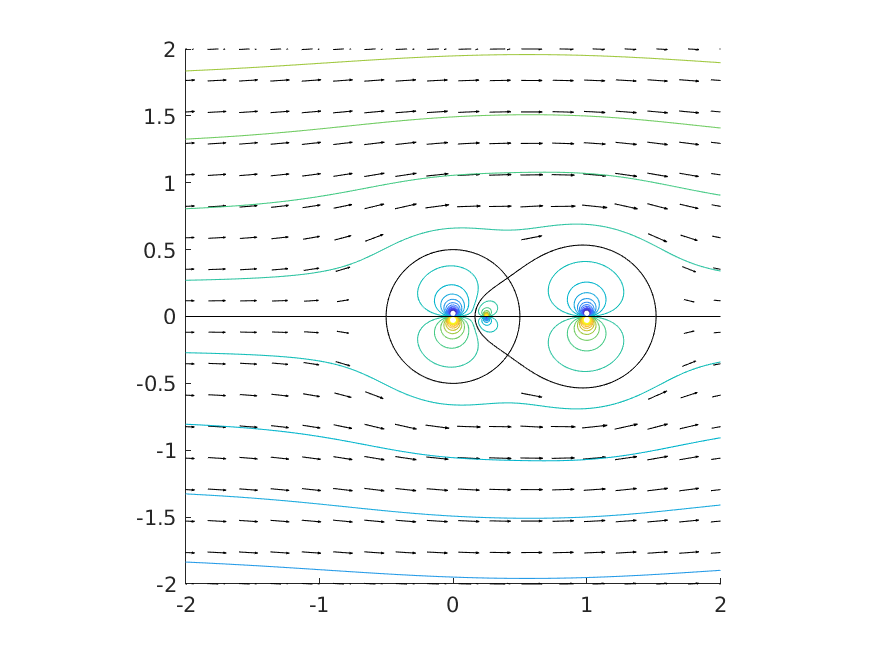
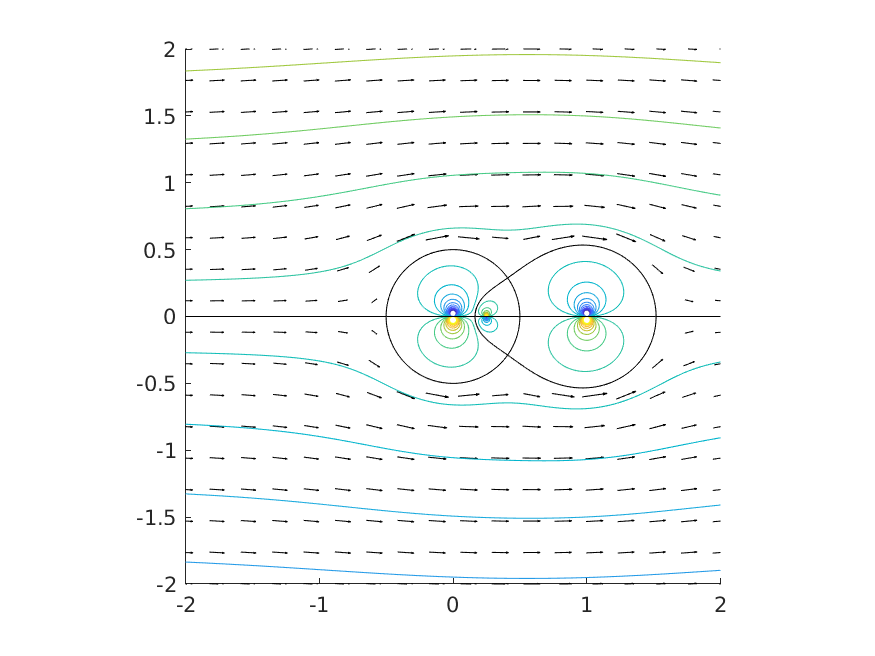
Add as11 edits

diff --git a/as11/hw.tex b/as11/hw.tex
@@ -18,6 +18,7 @@
 \DeclareMathOperator*{\res}{Res}
 
 \newcommand{\R}{\mathbb{R}}
+\newcommand{\C}{\mathbb{C}}
 \newcommand{\Z}{\mathbb{Z}}
 
 \def\*#1{\mathbf{#1}}
@@ -43,6 +44,9 @@
 \newcommand{\dtau}{\delta \tau}
 \newcommand{\titau}{\tilde{\tau}}
 \newcommand{\tidtau}{\delta \tilde{\tau}}
+\newcommand{\tiz}{\tilde{z}}
+\newcommand{\tix}{\tilde{x}}
+\newcommand{\tiy}{\tilde{y}}
 
 % Links
 \usepackage{hyperref}
@@ -245,6 +249,7 @@ In this problem I'm going to do the following:
 \begin{itemize}
     \item derive a formula for the torque about the origin due to forces on a body
     \item show an example of why an object in uniform flow is rotationally stable
+    \item generalize the above example for general rotational stability
 \end{itemize}
 
 \textbf{Deriving the torque formula}
@@ -399,7 +404,7 @@ Now we'll consider the familiar flow past a circular cylinder whose
 potential is given by
 %
 \begin{equation*}
-    \Phi(z) = U_\infty (z + \frac{a^2}{z})
+    \Phi(z) = U_\infty \del{z + \frac{a^2}{z}}
 \end{equation*}
 %
 (there's actually a figure for this with $U_\infty = 1$ and $a = 2$ in
@@ -425,12 +430,31 @@ cylinder is given by
      ,
 \end{align*}
 %
-so the cylinder is rotationally stable, which makes sense. How does this
-example generalize to \textit{any} body in \textit{any} uniform flow? My
-intuition is that, provided the body is symmetric with respect to the
-orientation of flow, the torque will be $0$. However, this might even
-hold if the body isn't symmetric, although this isn't particularly
-intuitive to me.
+so the cylinder is rotationally stable, which makes sense.
+
+\textbf{Generalizing the example}
+
+What can we say about the torque about the origin for an arbitrary body?
+The key lies in the circulation
+%
+\begin{equation*}
+    \Gamma = \Re \cbr{\oint_\fC \dod{\Phi}{z} \dif z}
+    .
+\end{equation*}
+%
+The Laurent series for the above integrand, has a non-zero residue only if
+the Laurent series for
+%
+\begin{equation*}
+    z \del{\dod{\Phi}{z}}^2
+\end{equation*}
+%
+also has a non-zero residue. Moreover, we can say that we have a non-zero
+\textit{real} component of the residue for the integrand of the
+circulation only if we have a non-zero real component of the
+residue for the integrand of the torque integrand. Hence there is no net
+torque about the origin only if the circulation around the body
+is zero. (Whether the converse holds is non-trivial.)
 
 \newpage
 
@@ -441,7 +465,7 @@ In this problem I'm going to do the following:
     \item describe what the Milne-Thomson circle theorem states
     \item prove the theorem
     \item show an example
-    \item show another example (the ping pong ball)
+    \item show another example (the ping pong ball in single/double hair dryer flow)
     \item explore whether we can extend this theorem to multiple circles
 \end{itemize}
 
@@ -552,8 +576,9 @@ magnitude near the origin.
 
 Now we'll look at the ``ping-pong ball in a hair dryer'' flow we briefly
 looked at in lecture. For this example, we'll get a bit more involved in
-the analysis than the previous example. Here, Milne-Thomson will
-essentially insert a circle (our ping pong ball) into the hair dryer
+the analysis than the previous example. First we'll look at ``double
+hair dryer'' flow. Here, Milne-Thomson will essentially insert a circle
+(our ping pong ball) into the centre of the double hair dryer
 flow $\Phi$ given by
 %
 \begin{equation*}
@@ -576,21 +601,21 @@ Computing the real and imaginary components of $\Phi_{mt}$ then gives us
     .
 \end{align*}
 %
-Plots of the hair dryer flow generated from $\Phi$ and with the embedded
-ping pong ball generated from $\Phi_{mt}$ are shown in
+Plots of the double hair dryer flow generated from $\Phi$ and with the
+embedded ping pong ball generated from $\Phi_{mt}$ are shown in
 Figures~\ref{fig:mt-3} and~\ref{fig:mt-4}, respectively.
 %
 \begin{figure}[ht]
     \includegraphics[width=35em]{mt_ex2_1}
     \centering
-    \caption{Hair dryer flow generated from $\Phi$}
+    \caption{Double hair dryer flow generated from $\Phi$}
     \label{fig:mt-3}
 \end{figure}
 %
 \begin{figure}[ht]
     \includegraphics[width=35em]{mt_ex2_2}
     \centering
-    \caption{Ping pong ball in hair dryer flow generated from $\Phi_{mt}$}
+    \caption{Ping pong ball in double hair dryer flow generated from $\Phi_{mt}$}
     \label{fig:mt-4}
 \end{figure}
 %
@@ -612,11 +637,11 @@ and, thus, using the residue theorem we have that
 \end{equation*}
 %
 Hence we would expect that a ping pong ball placed in the centre of the
-hair dryer flow will stay in the center.
+double hair dryer flow will stay in the centre.
 
 What if we offset the ping pong ball so it wasn't exactly in the centre
-of the hair dryer flow? Let's offset the ball (or, equivalently, the
-hair dryer flow) by $0.1$ units horizontally. We can model this by
+of the double hair dryer flow? Let's offset the ball (or, equivalently, the
+double hair dryer flow) by $0.1$ units horizontally. We can model this by
 generating a new potential $\Phi_{mt2}$ given by
 %
 \begin{equation*}
@@ -642,8 +667,8 @@ small).
     \label{fig:mt-5}
 \end{figure}
 %
-Let's go ahead and compute the Blasius integral formula again. First we'll calculate the integrand
-in the Blasius integral formula:
+Let's go ahead and compute the Blasius integral formula again. First
+we'll calculate the integrand in the Blasius integral formula:
 %
 \begin{equation*}
     \del{\Phi^\prime_{mt2}}^2
@@ -656,21 +681,63 @@ Hence we have that
 %
 \begin{align*}
     \*F_B
-        &\to \del{i \frac{\rho_0}{2} \oint_{\partial B} \del{\Phi_{mt}^\prime(z)}^2 \dif z}^* \\
+        &\to \del{i \frac{\rho_0}{2} \oint_{\partial B} \del{\Phi_{mt2}^\prime(z)}^2 \dif z}^* \\
         &= \del{i \frac{\rho_0}{2} 2 \pi i \res_{z = 0} \sbr{\del{\Phi^\prime_{mt2}}^2}}^* \\
         &= \del{i \frac{\rho_0}{2} 2 \pi i (-0.8)}^* \\
         &= 0.8 \rho_0 \pi
     .
 \end{align*}
 %
-So it would appear that the ping bong ball is being pushed out of the
-hair dryer flow with this offset, which does not support the observation
-that the ping pong ball is stable in the centre of the hair dryer flow.
-In fact, if you generalize the horizontal offset to any number $c$, we
-can see that the centre is never stable, in the sense that the force
-will always be directed away from the centre of the hair dryer flow
-(unless the ball is exactly at the centre). Perhaps this isn't a good
-model for the ``ping pong ball in hair dryer flow'' demo?
+So it would appear that the ping bong ball is being away from
+centre double hair dryer flow with this offset.
+
+Before moving on to single hair dryer flow, let's consider any offset
+$\tiz \in \C$ and see whether the centre of the flow is stable with
+respect to this offset. In this case, our potential $\Phi_{mt3}$ will be
+given by
+%
+\begin{equation*}
+    \Phi_{mt3}(z) = (z + \tiz)^2 + \del{\frac{1}{z} + \tiz}^2
+    .
+\end{equation*}
+%
+Expressing $\tiz = \tix + i \tiy$ we have that (omitting the whole
+calculation for brevity; the steps are identical to what we did with the
+$0.1$ horizontal offset)
+%
+\begin{equation*}
+    \res_{z = 0} \del{\Phi^\prime_{mt3}}^2 = -8 (\tix + i \tiy)
+    ,
+\end{equation*}
+%
+and so
+%
+\begin{align*}
+    \*F_B
+        &\to \del{i \frac{\rho_0}{2} \oint_{\partial B} \del{\Phi_{mt3}^\prime(z)}^2 \dif z}^* \\
+        &= \del{i \frac{\rho_0}{2} 2 \pi i \res_{z = 0} \sbr{\del{\Phi^\prime_{mt3}}^2}}^* \\
+        &= \del{i \frac{\rho_0}{2} 2 \pi i (- 8 (\tix + i \tiy)}^* \\
+        &= 8 \rho_0 \pi (\tix - \tiy)
+    .
+\end{align*}
+%
+From this we can conclude that any perturbation of the ping pong ball
+from the centre of the hair dryer flow will push the ping pong ball
+\textit{away} from the centre in the horizontal direction and
+\textit{towards} the centre in the vertical direction. Looking again at
+the flow in Figure~\ref{fig:mt-3}, this result makes sense.
+
+We've looked at the double hair dryer flow, but what can we say about
+single hair dryer flow? It turns out that if we take the single hair
+dryer flow to be a vertically translated version of our double hair
+dryer flow, then we've already solved the problem. Considering our
+generalization above, the ping pong ball is \textit{never} stable in the
+centre of the single hair dryer flow. The ball will move vertically up
+no matter what, and, if not horizontally centered, will also move
+horizontally outwards. This is consistent with Figure~\ref{fig:mt-3}.
+However, it is not consistent with the demo we saw in lecture, which
+implies that this flow is not suitable to model the physics seen in the
+lecture demo.
 
 \textbf{Modelling multiple circles}
 
@@ -713,16 +780,34 @@ Figure~\ref{fig:mt-6}.
     \label{fig:mt-6}
 \end{figure}
 %
-This result is surprising. What is the third singularity (the one that is
-most ``intense'') doing there? How can we interpret it? Why is the $\psi
-= 0$ contour for our original circle seemingly ``reaching over'' to
-``include it'' in its interior?
+This result is physically plausible in that it looks roughly like what I
+would expect to happen if we inserted two circles into the flow $\Phi$.
 
-I don't have the answers to any of these questions. What I can
-(partially) answer is whether this is a good model for embedding two (or
-more) circles into a flow. I want to say yes, albeit hesitantly, because
-the flow looks reasonable. The hesitation comes from not knowing how to
-understand the third singularity. This is something I would explore in
-more detail in a longer, more comprehensive project.
+These circles are ``touching'' each other by design. What if they were
+farther apart. Let's see what happens in this case. Here we will keep $a
+= 1/2$ for both circles and offset horizontally $5$ units. This gives us
+the final potential (after both circles are embedded)
+%
+\begin{equation*}
+    \Psi_{mt2}
+        = (z - 5) + \frac{1}{4 (z - 5)}
+        + \del{\frac{1}{4z} - 5} + \frac{1}{4 (\frac{1}{4z} - 5)}
+\end{equation*}
+%
+which results in the flow in Figure~\ref{fig:mt-7}.
+%
+\begin{figure}[ht]
+    \includegraphics[width=35em]{mt_ex3_2}
+    \centering
+    \caption{Modelling two circle flow generated from $\Psi_{mt2}$}
+    \label{fig:mt-7}
+\end{figure}
+%
+Again, the results here look perfectly reasonable.
+
+Based on these two example my conjecture is that, for any given flow, we
+can approximate embedding \textit{any} object into the flow by
+approximating it with non-overlapping circles and applying Milne-Thomson
+successively in the manner we've done here.
 
 \end{document}

diff --git a/as11/code/mt_ex3-2.m b/as11/code/mt_ex3-2.m
@@ -1,0 +1,48 @@
+clear;
+close all
+
+% Setup grids
+L = 6.0;
+ds = 2/17;
+
+x = -1:ds:+L;
+y = -1:ds:+1;
+
+% Contour grid
+xc = linspace(-1,L,1000);
+yc = linspace(-1,L,1000);
+[xxc,yyc] = meshgrid(xc,yc);
+
+% Quiver grid
+[xx,yy] = meshgrid(x,y);
+[tt,rr] = cart2pol(xx,yy);
+
+% Psi
+psi = -4.*yyc./((-20 + 4.*xxc).^2 + 16.*yyc.^2) - yyc./(4.*(xxc.^2 + yyc.^2)) + yyc./((xxc.^2 + yyc.^2).*((xxc./(xxc.^2 + yyc.^2) - 20).^2 + yyc.^2./(xxc.^2 + yyc.^2).^2)) + yyc;
+
+% Velocities
+uu = 1 + 4./((-20 + 4.*xx).^2 + 16.*yy.^2) - (-20 + 4.*xx).*(-160 + 32.*xx)./((-20 + 4.*xx).^2 + 16.*yy.^2).^2 + 1./(4.*(xx.^2 + yy.^2)) - xx.^2./(2.*(xx.^2 + yy.^2).^2) + (1./(xx.^2 + yy.^2) - 2.*xx.^2./(xx.^2 + yy.^2).^2)./((xx./(xx.^2 + yy.^2) - 20).^2 + yy.^2./(xx.^2 + yy.^2).^2) - (xx./(xx.^2 + yy.^2) - 20).*(2.*(xx./(xx.^2 + yy.^2) - 20).*(1./(xx.^2 + yy.^2) - 2.*xx.^2./(xx.^2 + yy.^2).^2) - 4.*yy.^2.*xx./(xx.^2 + yy.^2).^3)./((xx./(xx.^2 + yy.^2) - 20).^2 + yy.^2./(xx.^2 + yy.^2).^2).^2;
+vv = -32.*(-20 + 4.*xx).*yy./((-20 + 4.*xx).^2 + 16.*yy.^2).^2 - xx.*yy./(2.*(xx.^2 + yy.^2).^2) - 2.*xx.*yy./((xx.^2 + yy.^2).^2.*((xx./(xx.^2 + yy.^2) - 20).^2 + yy.^2./(xx.^2 + yy.^2).^2)) - (xx./(xx.^2 + yy.^2) - 20).*(-4.*(xx./(xx.^2 + yy.^2) - 20).*xx.*yy./(xx.^2 + yy.^2).^2 + 2.*yy./(xx.^2 + yy.^2).^2 - 4.*yy.^3./(xx.^2 + yy.^2).^3)./((xx./(xx.^2 + yy.^2) - 20).^2 + yy.^2./(xx.^2 + yy.^2).^2).^2;
+
+% Start plot
+clf
+hold on
+
+% Quivers - plotting twice makes symmetrically-placed arrows
+rr1 = xx.^2 + yy.^2;
+rr2 = (xx - 5).^2 + yy.^2;
+quiv_condition = rr1>=0.3 & rr2>=0.3;
+
+quiver(x,y,uu.*quiv_condition,vv.*quiv_condition,0.3,'k')
+quiver(x,y,-uu.*quiv_condition,-vv.*quiv_condition,0.3,'k.')
+
+% Axes
+axis equal;
+axis([-1 L -1 +1]);
+
+% Level curves of psi
+contour(xc,yc,psi,[-5.25:0.5:5]);
+contour(xc,yc,psi,[0 0],'Black');
+
+% Save image
+print -dpng ../img/mt_ex3_2.png

diff --git a/as11/code/mt_ex3-1.m b/as11/code/mt_ex3-1.m
@@ -31,7 +31,7 @@ hold on
 % Quivers - plotting twice makes symmetrically-placed arrows
 rr1 = xx.^2 + yy.^2;
 rr2 = (xx - 1).^2 + yy.^2;
-quiv_condition = rr1>=(1/2) & rr2>=(1/2);
+quiv_condition = rr1>=0.3 & rr2>=0.3;
 
 quiver(x,y,uu.*quiv_condition,vv.*quiv_condition,0.3,'k')
 quiver(x,y,-uu.*quiv_condition,-vv.*quiv_condition,0.3,'k.')
